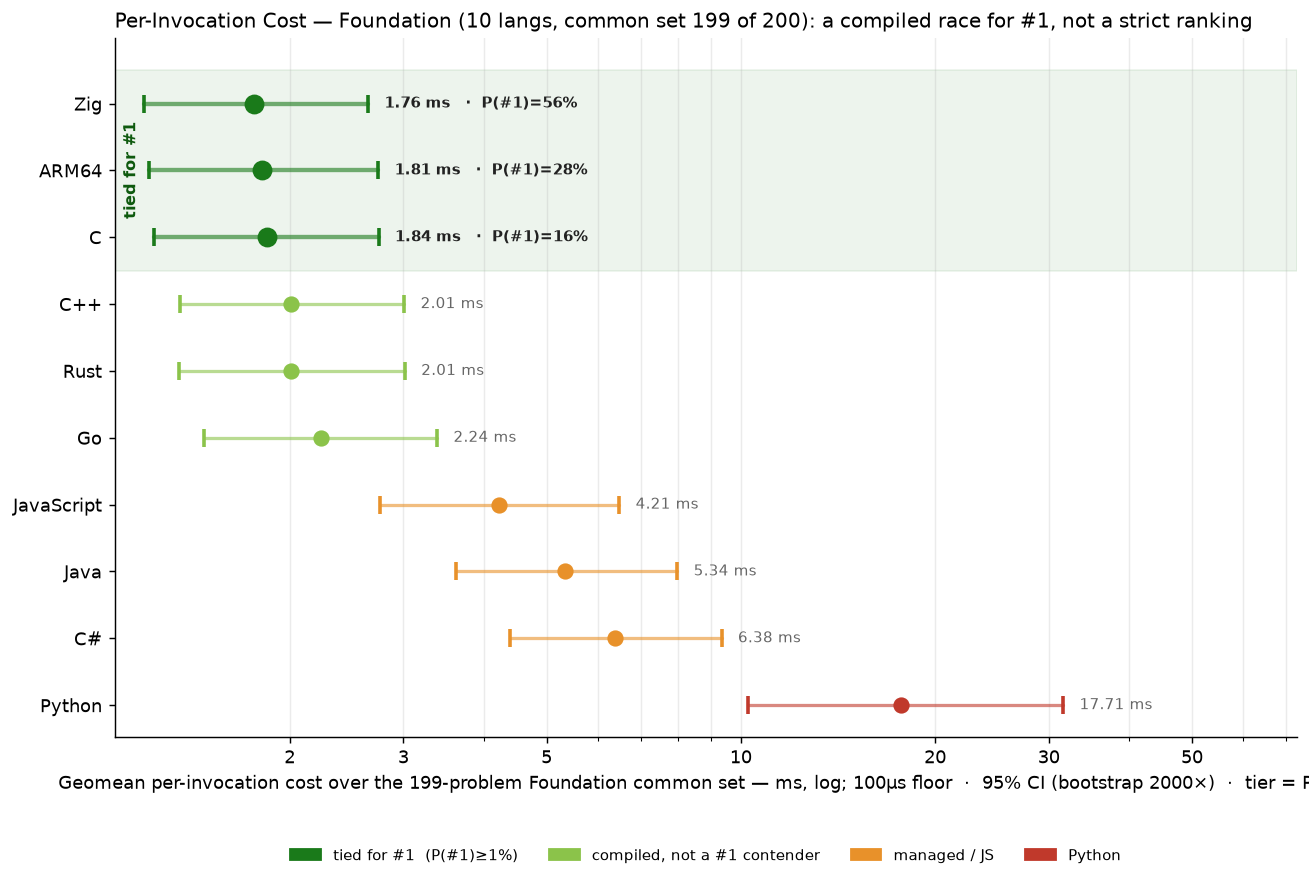
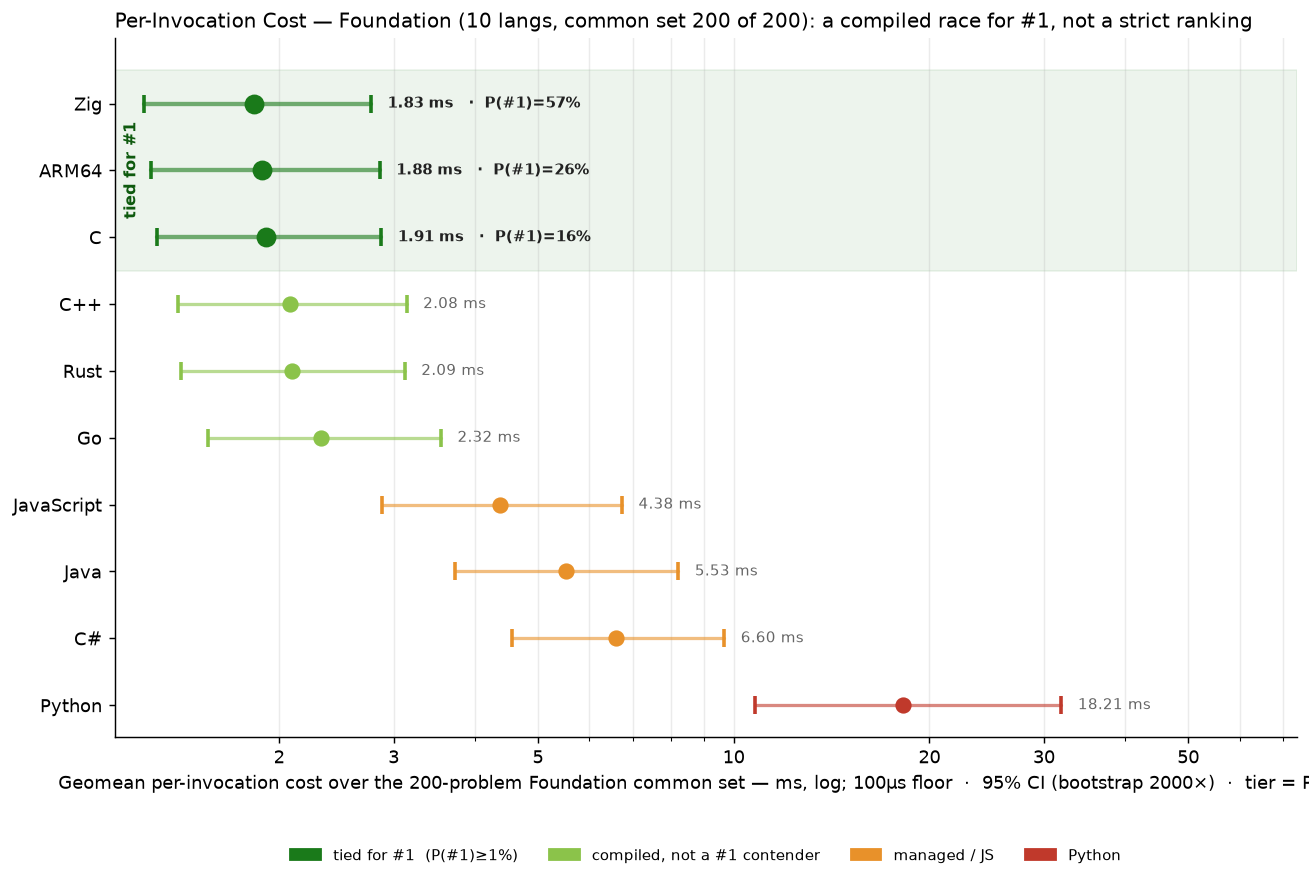
bench: python p0154 fixed (numpy rewrite)

diff --git a/RESULTS.md b/RESULTS.md
@@ -1,7 +1,7 @@
 # Project Euler — Cross-Language Benchmarks
 
-> **Scope: 4521 in-scope cells across 1007 problems × tiered languages — 3768 measured (83.3% coverage).**
-> The cross-language ranking below is computed over the **199-problem common set** (problems in 1-200 where every language has a passing measurement) — the apples-to-apples Foundation comparison surface.  Per-tier rankings and coverage detail appear further below.
+> **Scope: 4521 in-scope cells across 1007 problems × tiered languages — 3769 measured (83.4% coverage).**
+> The cross-language ranking below is computed over the **200-problem common set** (problems in 1-200 where every language has a passing measurement) — the apples-to-apples Foundation comparison surface.  Per-tier rankings and coverage detail appear further below.
 > Growing carefully — each new problem and language is audited for state-leak
 > safety, verified for answer correctness, and added only when it cleanly fits the
 > measurement methodology.  See [JOURNEY.md](JOURNEY.md) for the full story of how
@@ -12,12 +12,12 @@
 
 All 10 languages benchmarked across the first 200 problems — the apples-to-apples comparison surface that anchors the suite's headline rankings.
 
-### Per-Invocation Cost (Common Set, 199 of 200 problems)
+### Per-Invocation Cost (Common Set, 200 of 200 problems)
 
 Each program runs in fresh OS processes (no warmup, no shared state) under the
 magnitude-adaptive sampling rule, minimum reported; every invocation pays full startup + algorithm
 cost — the cost a real CLI / cron / shell-loop user actually pays.  The ranking
-below is the **geometric mean** of per-problem medians over the 199-problem
+below is the **geometric mean** of per-problem medians over the 200-problem
 common set, with cells floored at 100 µs so timer-granularity trivia can't swing
 the mean; the sum over the same set is shown as a secondary column.  See
 [METHODOLOGY.md](METHODOLOGY.md) §3 (sampling) and §6 (ranking) for why.
@@ -26,18 +26,18 @@ the mean; the sum over the same set is shown as a secondary column.  See
 
 > **The top compiled languages are a statistical tie for #1, not a strict order.** Bootstrapping the geomean over the common set (2000× resamples) leaves several compiled langs with overlapping 95% confidence intervals and non-trivial P(#1) (the chance a lang is fastest across resamples) — the chart above shows the intervals. Read the table below as **tiers**, not a 1-N ranking: the fine order among the top compiled langs is within measurement noise. The coarse structure (compiled → managed → Python) is robust.
 
-| Rank | Language | Geomean (199-problem common set) | Total (sum) | Lines of code | vs Fastest |
+| Rank | Language | Geomean (200-problem common set) | Total (sum) | Lines of code | vs Fastest |
 |------|----------|--------------------:|------------:|--------------:|-----------:|
-| 1 | **Zig** | 1.76 ms | 21.12 s | 13,404 | 1.00× |
-| 2 | **ARM64** | 1.81 ms | 30.46 s | 40,083 | 1.03× |
-| 3 | **C** | 1.84 ms | 19.80 s | 14,446 | 1.05× |
-| 4 | **C++** | 2.01 ms | 20.09 s | 10,321 | 1.14× |
-| 5 | **Rust** | 2.01 ms | 23.55 s | 11,555 | 1.14× |
-| 6 | **Go** | 2.24 ms | 26.78 s | 13,156 | 1.27× |
-| 7 | **JavaScript** | 4.21 ms | 58.40 s | 9,264 | 2.39× |
-| 8 | **Java** | 5.34 ms | 37.12 s | 10,558 | 3.03× |
-| 9 | **C#** | 6.38 ms | 33.38 s | 10,960 | 3.62× |
-| 10 | **Python** | 17.71 ms | 335.71 s | 8,494 | 10.04× |
+| 1 | **Zig** | 1.83 ms | 24.11 s | 13,474 | 1.00× |
+| 2 | **ARM64** | 1.88 ms | 33.92 s | 40,297 | 1.03× |
+| 3 | **C** | 1.91 ms | 22.49 s | 14,524 | 1.04× |
+| 4 | **C++** | 2.08 ms | 22.78 s | 10,369 | 1.14× |
+| 5 | **Rust** | 2.09 ms | 27.47 s | 11,614 | 1.14× |
+| 6 | **Go** | 2.32 ms | 30.64 s | 13,225 | 1.27× |
+| 7 | **JavaScript** | 4.38 ms | 67.58 s | 9,310 | 2.39× |
+| 8 | **Java** | 5.53 ms | 43.20 s | 10,611 | 3.02× |
+| 9 | **C#** | 6.60 ms | 38.58 s | 11,019 | 3.61× |
+| 10 | **Python** | 18.21 ms | 340.71 s | 8,561 | 9.95× |
 
 ### Speed vs Code Size
 

diff --git a/per_problem/per_problem_0101-0200.md b/per_problem/per_problem_0101-0200.md
@@ -61,7 +61,7 @@ in tier-1 display order (native → managed → interpreted).
 | **p0151** | 8.0 µs | 1.4 µs | 2.5 µs | 3.7 µs | 1.8 µs | 3.5 µs~ | 604.8 µs | 49.2 µs | 77.9 µs | 39.0 µs |
 | **p0152** | 1.61 s | 830.39 ms | 814.72 ms | 666.63 ms | 737.75 ms | 1.20 s | 979.41 ms | 866.38 ms | 5.69 s | 803.60 ms |
 | **p0153** | 2.38 s | 2.36 s | 2.37 s | 2.29 s | 3.06 s | 2.40 s | 2.71 s | 2.38 s | 7.06 s | 24.57 s |
-| **p0154** | 3.45 s | 2.68 s | 2.69 s | 3.92 s | 2.99 s | 3.86 s | 5.20 s | 6.08 s | 9.19 s | ✗ fail |
+| **p0154** | 3.45 s | 2.68 s | 2.69 s | 3.92 s | 2.99 s | 3.86 s | 5.20 s | 6.08 s | 9.19 s | 5.00 s |
 | **p0155** | 794.80 ms | 622.88 ms | 662.89 ms | 1.11 s | 535.19 ms | 733.99 ms | 1.44 s | 3.19 s | 1.00 s | 6.93 s |
 | **p0156** | 145.60 ms | 88.34 ms | 89.42 ms | 76.73 ms | 74.13 ms | 122.78 ms | 247.91 ms | 104.00 ms | 1.04 s | 8.05 s |
 | **p0157** | 5.00 ms | 4.65 ms | 5.15 ms | 4.67 ms | 4.65 ms | 5.02 ms | 7.06 ms | 6.80 ms | 8.76 ms | 233.23 ms |
@@ -108,8 +108,6 @@ in tier-1 display order (native → managed → interpreted).
 | **p0198** | 131.57 ms | 134.71 ms | 114.67 ms | 118.87 ms | 398.62 ms | 302.54 ms | 460.93 ms | 556.01 ms | 770.93 ms | 8.31 s |
 | **p0199** | 1.43 ms | 580.0 µs | 730.5 µs | 617.7 µs | 756.2 µs | 1.45 ms | 1.75 ms | 1.35 ms | 3.25 ms | 28.29 ms |
 | **p0200** | 75.54 ms | 9.54 ms | 9.65 ms | 8.34 ms | 9.39 ms | 9.36 ms | 47.88 ms | 50.71 ms | 40.51 ms | 156.35 ms |
-
-> ✗ — *process-contract failure* (METHODOLOGY.md §2): the row is recorded as a failure with its reason class (untimed-work / parallel-execution) — there is no path by which a contract-breaking measurement appears as a fast time.
 
 > † — *no corroboration*: no two samples agreed within 5% even at the cell's full sample count. Diagnostic only — the reported minimum still stands; it flags a disturbed measurement environment worth re-benching (METHODOLOGY.md §3).
 
